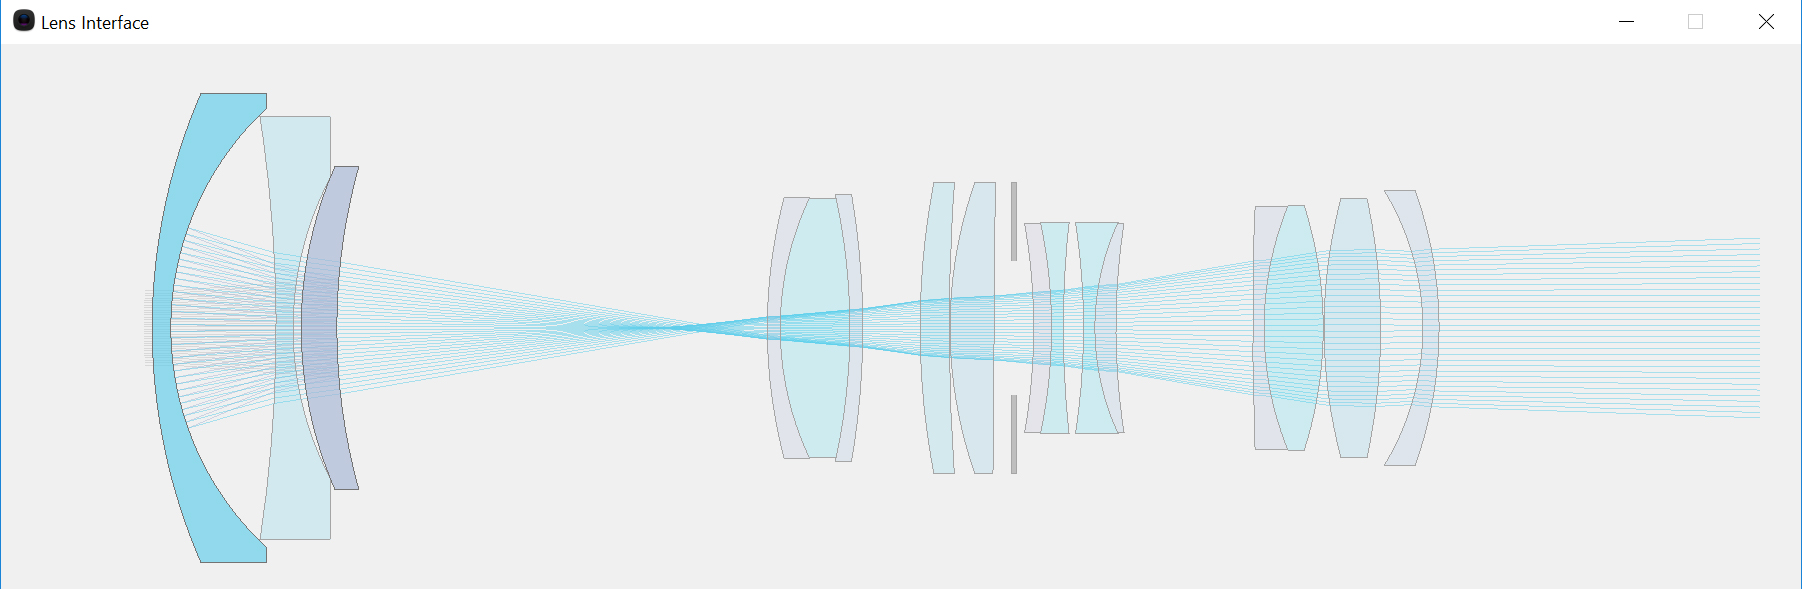
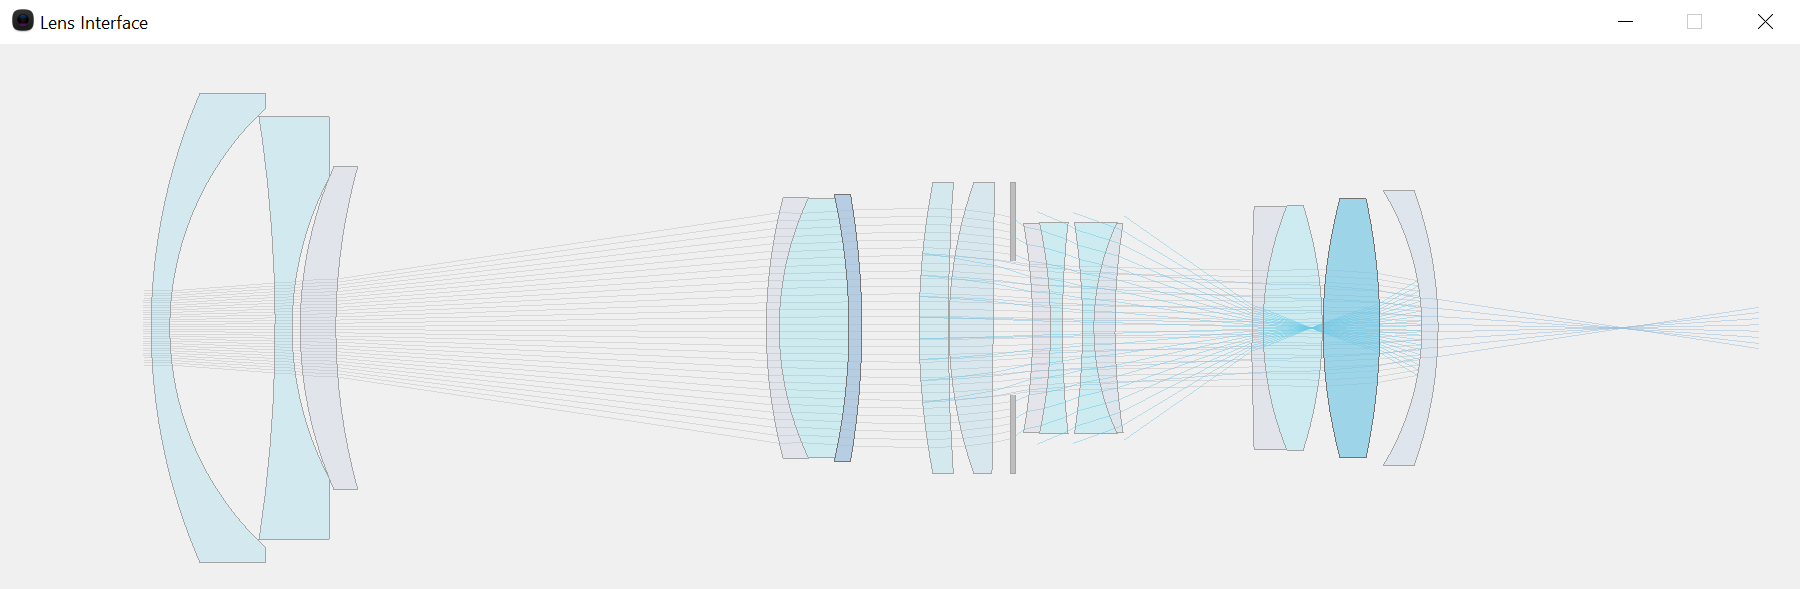
Fixing images

Changed region(s): [[0.0622, 0.0, 1.0, 1.0], [0.0, 0.0306, 0.0933, 0.0611]]

diff --git a/lens-flares.md b/lens-flares.md
@@ -16,5 +16,7 @@ All the code mentioned in this article can can be found here https://github.com/
 The basic idea of the "Physically-Based Lens Flare" paper is to ray trace "ray bundles" into a lens system which will end up on a sensor to form a "ghost". A ghost here refers to the de-focused light that reaches the sensor of a camera due to the light reflecting off the lens. Since camera lens are not made of a single optical lens but many lens there can be many ghosts that forms on the sensor. If we only consider the ghosts that are formed from two bouces, that's a total of nCr(n,2) ghosts (where n is the number of lens components in a lens)
 
 ![](https://github.com/greje656/Questions/blob/master/images/ghost1.jpg)
+![](https://github.com/greje656/Questions/blob/master/images/ghost2.jpg)
+![](https://github.com/greje656/Questions/blob/master/images/ghost3.jpg)
 
 (By the way, implementing a 2d version on the cpu has proven an invaluable way of understanding and debugging the gpu version).
